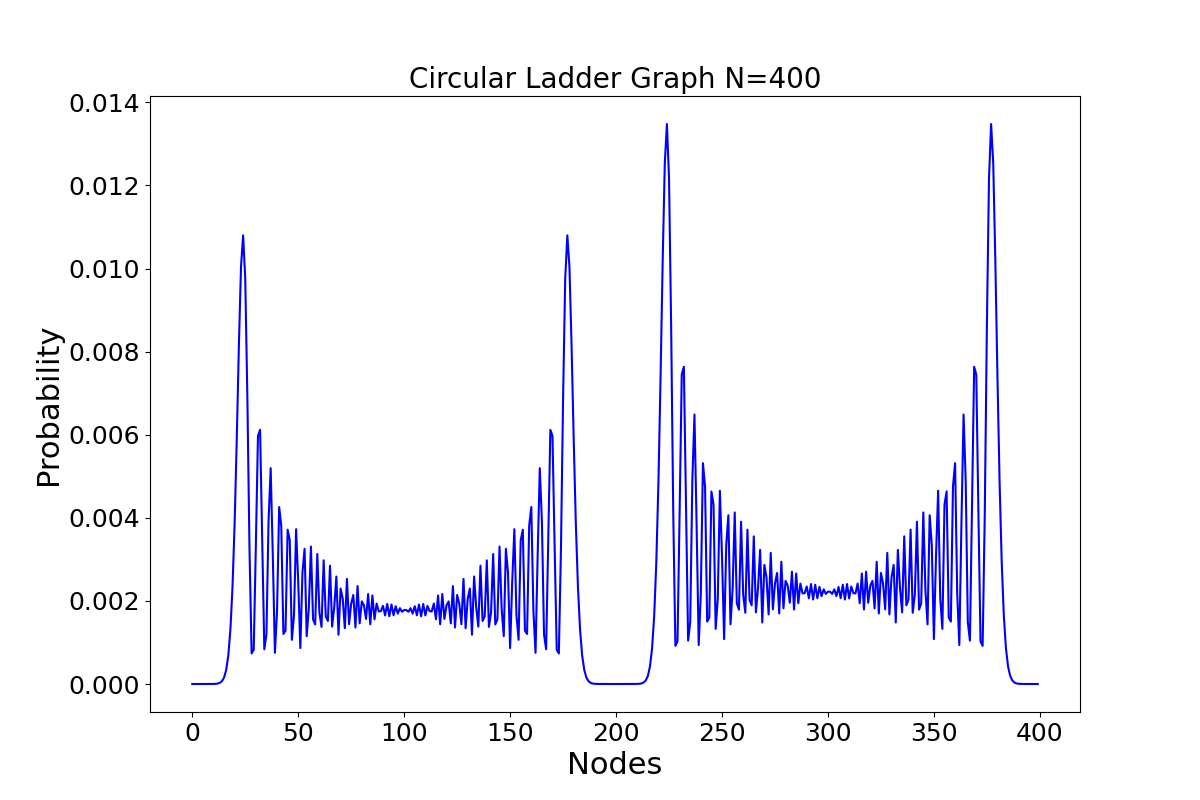
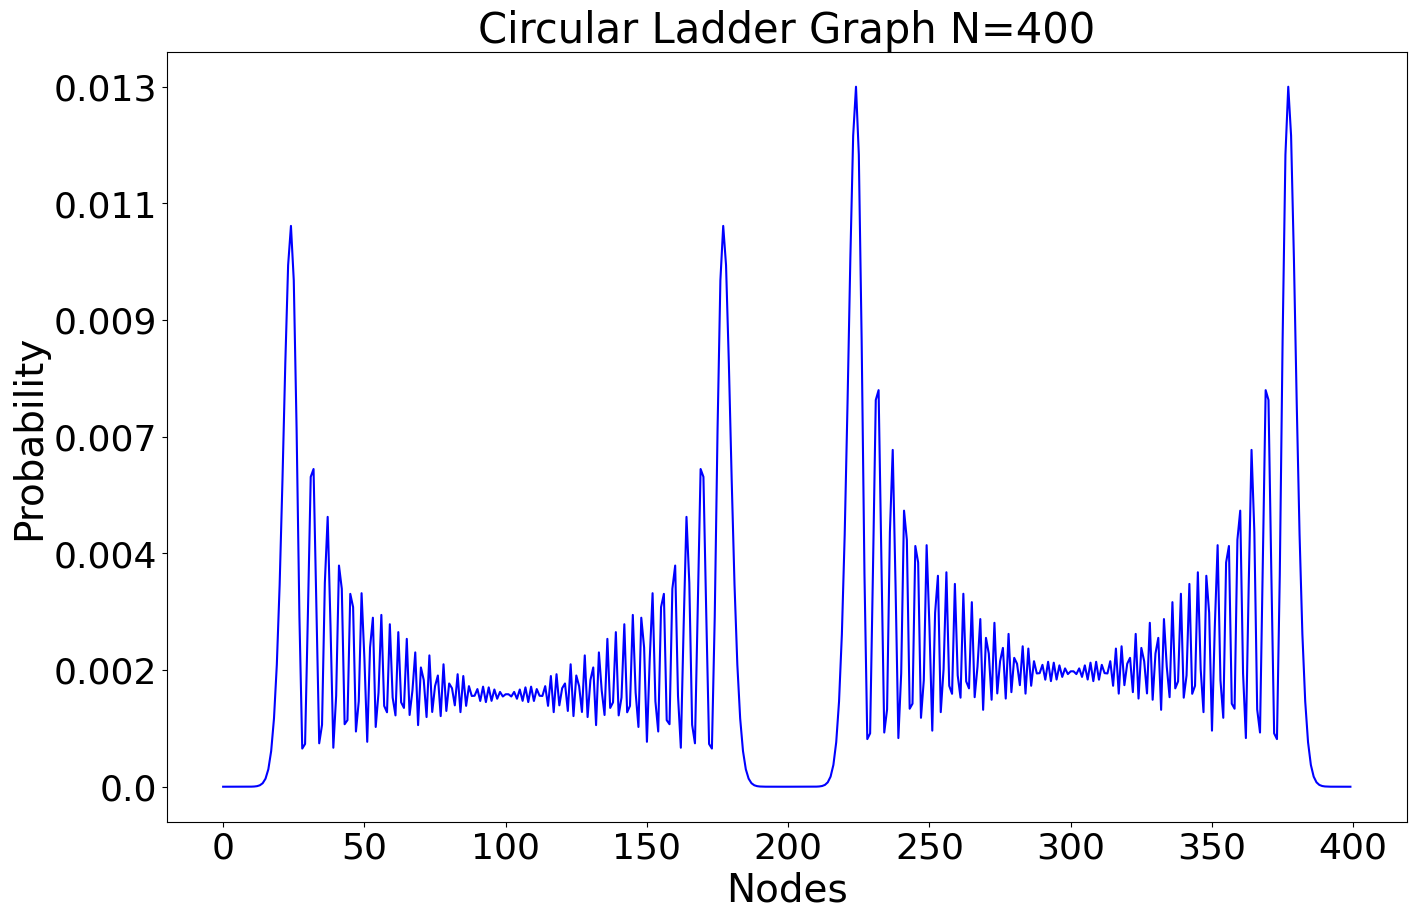
Added circular and cycle figures.

diff --git a/Notebook/run_ManualWalk-CycleDynamics.py b/Notebook/run_ManualWalk-CycleDynamics.py
@@ -1,0 +1,78 @@
+from qwak.State import State
+from qwak.Operator import Operator
+from qwak.QuantumWalk import QuantumWalk
+from qwak.ProbabilityDistribution import ProbabilityDistribution
+from qwak.qwak import QWAK
+from utils.plotTools import plot_qwak
+import networkx as nx
+import numpy as np
+from matplotlib import pyplot as plt
+import timeit
+import sympy as sp
+from sympy.abc import pi
+from math import sqrt, ceil, pow
+import os
+import shutil
+
+SCRIPT_DIR = os.getcwd()
+
+tList = [40,80,120]
+gamma = 1/(2*np.sqrt(2))
+n = 200
+graph = nx.cycle_graph(n)
+initNodes = [n//2,n//2 +1]
+quantum_walk = QWAK(graph,gamma=gamma)
+
+probVecList = []
+
+for t in tList:
+    quantum_walk.runWalk(t, initNodes)
+    probVecList.append(quantum_walk.getProbVec())
+
+n = len(graph)
+nodeList = list(range(0,n))
+
+params = {
+    'font_size': 24,
+    'figsize': (16, 10),
+    'plot_title' : f'Cycle Graph N={n}',
+    'x_label': 'Nodes',
+    'y_label': "Probability",
+    'legend_labels' : tList,
+    'legend_loc': "best",
+    'legend_title' : r'Time Interval',
+    'legend_ncol' : 1,
+    'color_list': ['#0000FF', '#008000', '#525252'],
+    'line_style_list': ['-', '-', '-.'],
+    'save_path': os.path.join(SCRIPT_DIR, 'Notebook', 'Output', 'UndirectedDynamics', f'cycleDynamics_N{n}_GAM{round(gamma,3)}_TMAX{str(tList).replace(", ", "-").replace("[", "").replace("]", "")}.png'),
+    'use_loglog': False,
+    'use_cbar': False,
+    'cbar_label': None,
+    'cbar_ticks': None,
+    'cbar_tick_labels': None,
+    'x_lim': None,
+    # 'x_num_ticks': 7,
+    'y_num_ticks': 7,
+    'x_round_val': 1,
+    'y_round_val': 3,
+    'title_font_size': 44,
+    'xlabel_font_size': 38,
+    'ylabel_font_size': 38,
+    'legend_font_size': 34,
+    'legend_title_font_size': 36,
+    'tick_font_size': 34,
+}
+
+plot_qwak(x_value_matrix = [nodeList]*3, y_value_matrix = probVecList,**params)
+plt.show()
+
+copy_to_latex = input("Do you want to copy the generated image to the LaTeX project? (y/n): ").strip().lower()
+if copy_to_latex == 'y':
+    latex_project_path = os.path.normpath(os.path.join(
+        SCRIPT_DIR,
+        "../QWAK-Paper_Revised/img/newFigures"
+    ))
+    shutil.copy(params['save_path'], latex_project_path)
+    print(f"Image copied to {latex_project_path}")
+else:
+    print("Image not copied.")

diff --git a/Notebook/run_ManualWalk-CircularLadderDynamics_CuPy.py b/Notebook/run_ManualWalk-CircularLadderDynamics_CuPy.py
@@ -1,0 +1,71 @@
+from qwak_cupy.State import State
+from qwak_cupy.Operator import Operator
+from qwak_cupy.QuantumWalk import QuantumWalk
+from qwak_cupy.ProbabilityDistribution import ProbabilityDistribution
+from qwak_cupy.qwak import QWAK
+from utils.plotTools import plot_qwak
+import networkx as nx
+import numpy as np
+from matplotlib import pyplot as plt
+import timeit
+import sympy as sp
+from sympy.abc import pi
+from math import sqrt, ceil, pow
+import os
+import shutil
+
+SCRIPT_DIR = os.getcwd()
+
+t = 200
+n = 1000
+graph = nx.circular_ladder_graph(n)
+initNodes = [n // 2, n // 2 + 1]
+quantum_walk = QWAK(graph)
+quantum_walk.runWalk(t, initNodes)
+
+n = len(graph)
+
+params = {
+    'font_size': 24,
+    'figsize': (16, 10),
+    'plot_title': f'Circular Ladder Graph N={n}',
+    'x_label': 'Nodes',
+    'y_label': "Probability",
+    # 'legend_labels': alphaLabelList,
+    # 'legend_loc': "best",
+    # 'legend_title': r'$\alpha$',
+    # 'legend_ncol': 3,
+    'color_list': ['#0000FF', '#008000', '#525252'],
+    'line_style_list': ['-', '-', '-.'],
+    'save_path': os.path.join(SCRIPT_DIR, 'Output', 'UndirectedDynamics', f'circularLadderDynamics-CuPy_N{n}_TMAX{round(t, 2)}.png'),
+    'use_loglog': False,
+    'use_cbar': False,
+    'cbar_label': None,
+    'cbar_ticks': None,
+    'cbar_tick_labels': None,
+    'x_lim': None,
+    'x_num_ticks': 7,
+    'y_num_ticks': 7,
+    'x_round_val': 1,
+    'y_round_val': 3,
+    'title_font_size': 44,
+    'xlabel_font_size': 38,
+    'ylabel_font_size': 38,
+    'legend_font_size': 34,
+    'legend_title_font_size': 36,
+    'tick_font_size': 34,
+}
+
+plot_qwak(x_value_matrix=list(range(0, n)), y_value_matrix=quantum_walk.getProbVec().get(), **params)
+plt.show()
+
+copy_to_latex = input("Do you want to copy the generated image to the LaTeX project? (y/n): ").strip().lower()
+if copy_to_latex == 'y':
+    latex_project_path = os.path.normpath(os.path.join(
+        SCRIPT_DIR,
+        "../QWAK-Paper_Revised/img/newFigures"
+    ))
+    shutil.copy(params['save_path'], latex_project_path)
+    print(f"Image copied to {latex_project_path}")
+else:
+    print("Image not copied.")

diff --git a/Notebook/run_ManualWalk-CircularLadderDynamics.py b/Notebook/run_ManualWalk-CircularLadderDynamics.py
@@ -1,0 +1,71 @@
+from qwak.State import State
+from qwak.Operator import Operator
+from qwak.QuantumWalk import QuantumWalk
+from qwak.ProbabilityDistribution import ProbabilityDistribution
+from qwak.qwak import QWAK
+from utils.plotTools import plot_qwak
+import networkx as nx
+import numpy as np
+from matplotlib import pyplot as plt
+import timeit
+import sympy as sp
+from sympy.abc import pi
+from math import sqrt, ceil, pow
+import os
+import shutil
+
+SCRIPT_DIR = os.getcwd()
+
+t = 40
+n = 200
+graph = nx.circular_ladder_graph(n)
+initNodes = [n // 2, n // 2 + 1]
+quantum_walk = QWAK(graph)
+quantum_walk.runWalk(t, initNodes)
+
+n = len(graph)
+
+params = {
+    'font_size': 24,
+    'figsize': (16, 10),
+    'plot_title': f'Circular Ladder Graph N={n}',
+    'x_label': 'Nodes',
+    'y_label': "Probability",
+    # 'legend_labels': alphaLabelList,
+    # 'legend_loc': "best",
+    # 'legend_title': r'$\alpha$',
+    # 'legend_ncol': 3,
+    'color_list': ['#0000FF', '#008000', '#525252'],
+    'line_style_list': ['-', '-', '-.'],
+    'save_path': os.path.join(SCRIPT_DIR, 'Notebook', 'Output', 'UndirectedDynamics', f'circularLadderDynamics_N{n}_TMAX{round(t, 2)}.png'),
+    'use_loglog': False,
+    'use_cbar': False,
+    'cbar_label': None,
+    'cbar_ticks': None,
+    'cbar_tick_labels': None,
+    'x_lim': None,
+    # 'x_num_ticks': 7,
+    'y_num_ticks': 7,
+    'x_round_val': 1,
+    'y_round_val': 3,
+    'title_font_size': 44,
+    'xlabel_font_size': 38,
+    'ylabel_font_size': 38,
+    'legend_font_size': 34,
+    'legend_title_font_size': 36,
+    'tick_font_size': 34,
+}
+
+plot_qwak(x_value_matrix=list(range(0, n)), y_value_matrix=quantum_walk.getProbVec(), **params)
+plt.show()
+
+copy_to_latex = input("Do you want to copy the generated image to the LaTeX project? (y/n): ").strip().lower()
+if copy_to_latex == 'y':
+    latex_project_path = os.path.normpath(os.path.join(
+        SCRIPT_DIR,
+        "../QWAK-Paper_Revised/img/newFigures"
+    ))
+    shutil.copy(params['save_path'], latex_project_path)
+    print(f"Image copied to {latex_project_path}")
+else:
+    print("Image not copied.")
